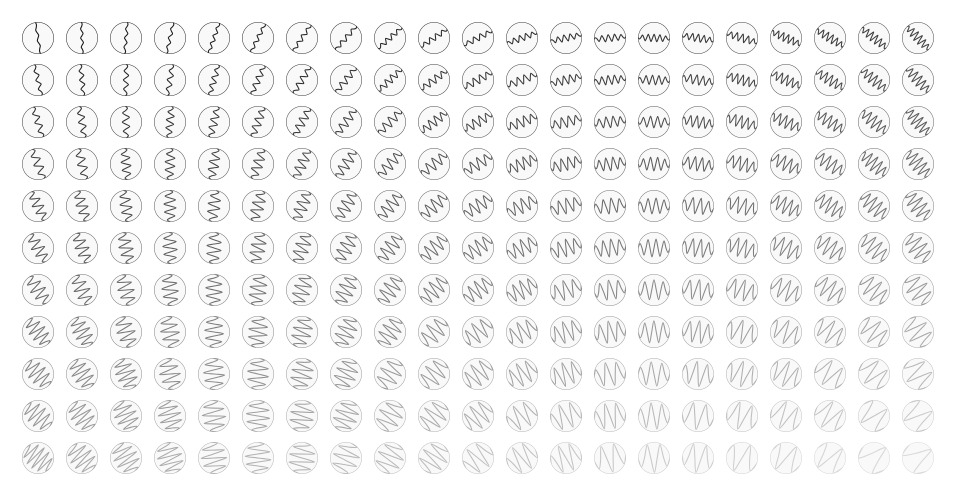
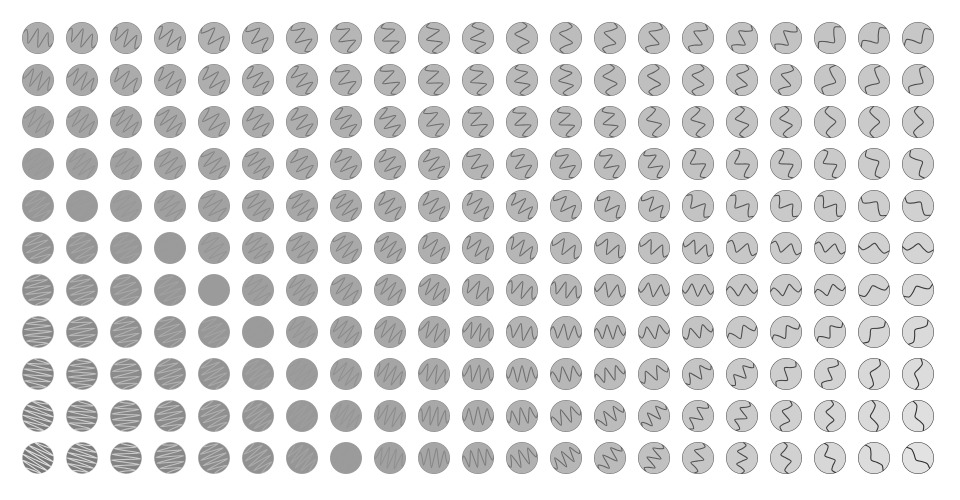
Aesthetic Two - dynamic fill

diff --git a/glyph.js b/glyph.js
@@ -1,5 +1,5 @@
 /* change default application behavior */
-var defaultMode = "gradient";
+var defaultMode = "image";
 var defaultSize = 32;
 var defaultDisplay = "glyph"
 var defaultEmoji = 100;
@@ -34,6 +34,7 @@ function Glyph() {
     let pointNum = 2*(round(map(satValue,0,100,1,13)));
     //console.log(this.satValue);
     let strokeFill = map(ligValue,0,100,0,90);
+    let circFill = map(ligValue,0,100,98,50);
     let tightness = map(ligValue,0,100,-2,0.8);
 
     let strokeW = size/30;
@@ -49,15 +50,16 @@ function Glyph() {
     //noStroke();
     strokeWeight(1);
     strokeUniform(strokeFill);
-    fillUniform(98);
+    fillUniform(circFill);
 
     ellipse(0,0,size,size);
 
-    strokeUniform(strokeFill);
     noFill();
 
     curveTightness(0.1);
+
     strokeWeight(strokeW);
+    strokeUniform(strokeFill);
 
     var pointX = -size/2;
     var pos = -1;
@@ -77,7 +79,7 @@ function Glyph() {
     curveVertex(size/2,0);
     endShape();
 
-    var outerStroke = 10
+    var outerStroke = size/30;
 
     strokeWeight(outerStroke);
     strokeUniform(100);

diff --git a/README.md b/README.md
@@ -4,6 +4,8 @@
 
 Further Development - Concept Two
 
-I am now exploring different aesthetics for the glyphs, I have added a circle which outstroke matches that off the waves stroke fill, this helps frame each glyph whilst still allowing the flow from wave to wave I want to coem across.
+I am now exploring different aesthetics for the glyphs, I have added a circle which outstroke matches that off the waves stroke fill, this helps frame each glyph whilst still allowing the flow from wave to wave I want to come across.
 
 I have also added an outer circle, which is completely white to trim away any of the wave that sticks out. So each glyph now stays within the guide perfectly.
+
+-Explored linking the fill to the lightness value, refinement needed when both circle and wave colour are the same so wave isnt visible.
